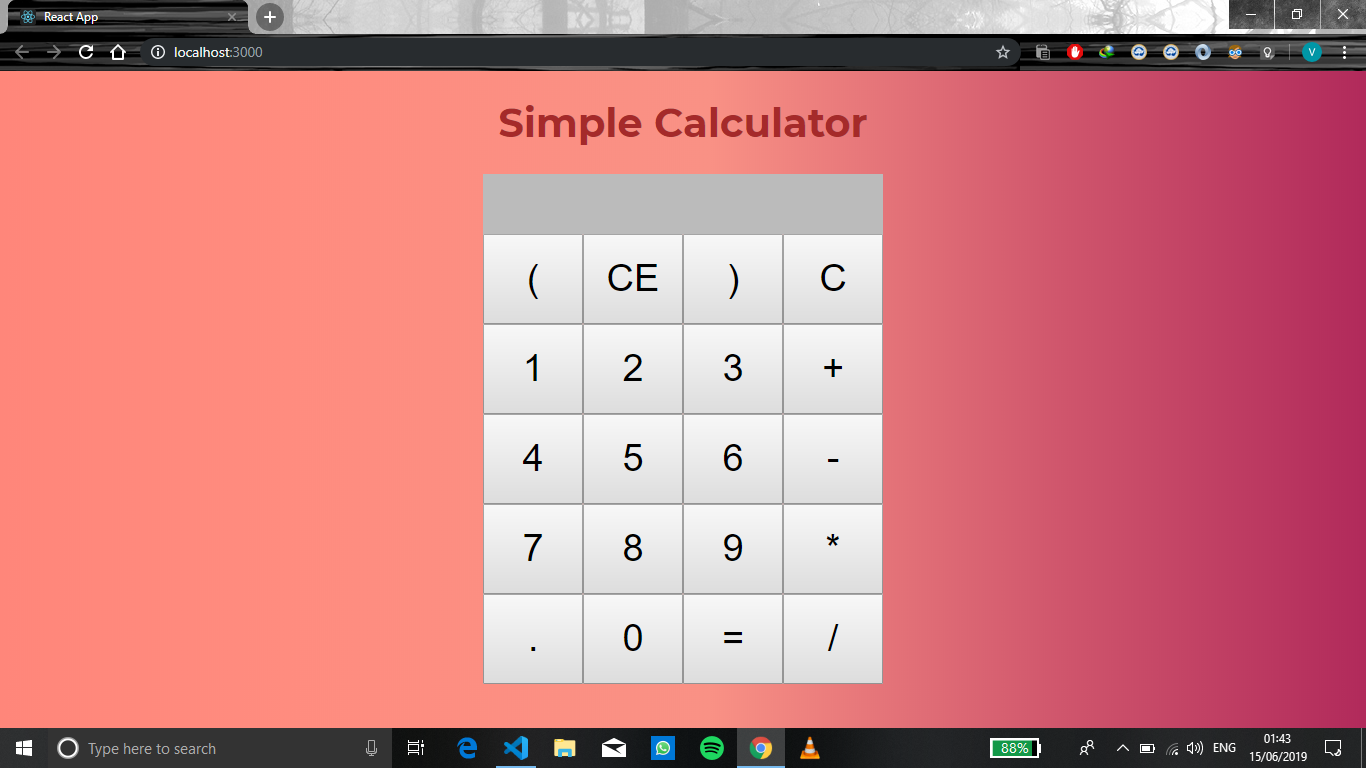
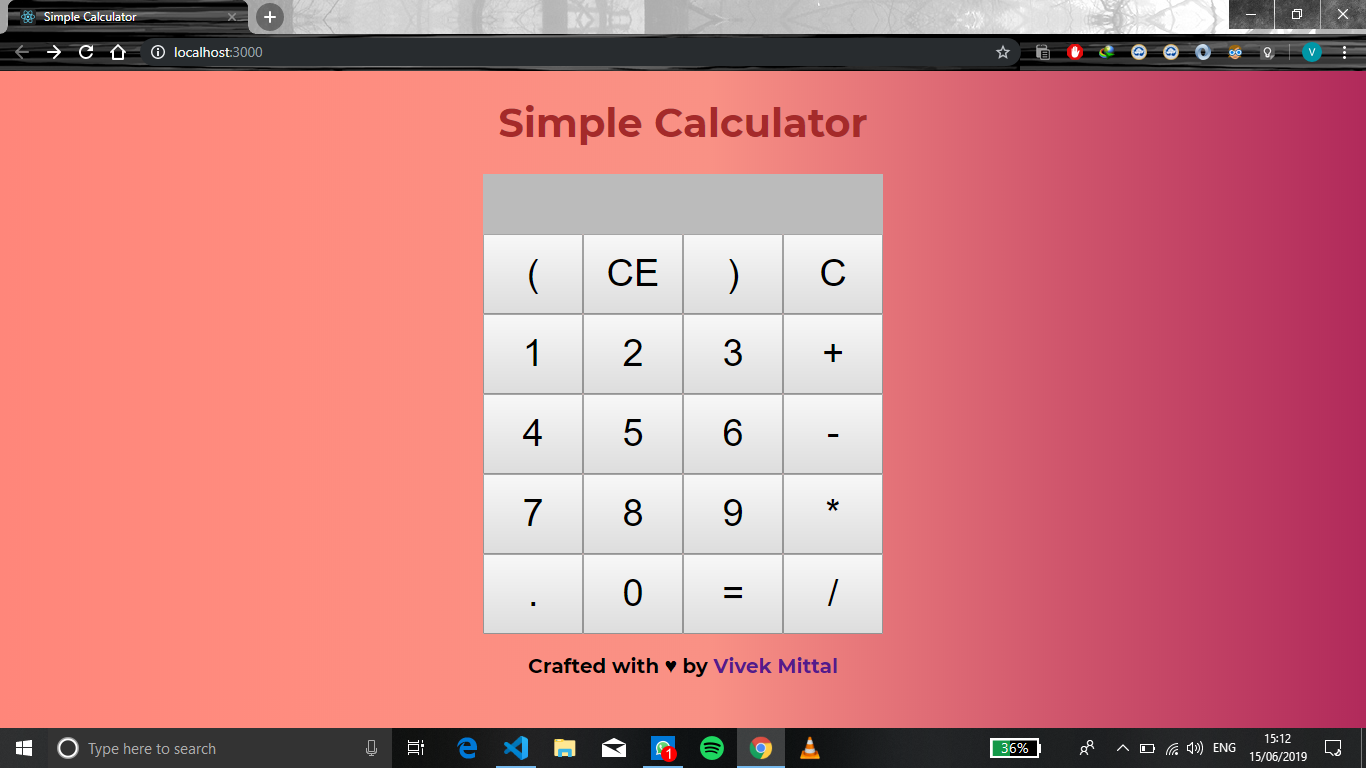
final commit

diff --git a/public/index.html b/public/index.html
@@ -5,34 +5,11 @@
     <link rel="shortcut icon" href="%PUBLIC_URL%/favicon.ico" />
     <meta name="viewport" content="width=device-width, initial-scale=1" />
     <meta name="theme-color" content="#000000" />
-    <!--
-      manifest.json provides metadata used when your web app is installed on a
-      user's mobile device or desktop. See https://developers.google.com/web/fundamentals/web-app-manifest/
-    -->
     <link rel="manifest" href="%PUBLIC_URL%/manifest.json" />
-    <!--
-      Notice the use of %PUBLIC_URL% in the tags above.
-      It will be replaced with the URL of the `public` folder during the build.
-      Only files inside the `public` folder can be referenced from the HTML.
-
-      Unlike "/favicon.ico" or "favicon.ico", "%PUBLIC_URL%/favicon.ico" will
-      work correctly both with client-side routing and a non-root public URL.
-      Learn how to configure a non-root public URL by running `npm run build`.
-    -->
-    <title>React App</title>
+    <title>Simple Calculator</title>
   </head>
   <body>
     <noscript>You need to enable JavaScript to run this app.</noscript>
     <div id="root"></div>
-    <!--
-      This HTML file is a template.
-      If you open it directly in the browser, you will see an empty page.
-
-      You can add webfonts, meta tags, or analytics to this file.
-      The build step will place the bundled scripts into the <body> tag.
-
-      To begin the development, run `npm start` or `yarn start`.
-      To create a production bundle, use `npm run build` or `yarn build`.
-    -->
   </body>
 </html>

diff --git a/src/App.js b/src/App.js
@@ -64,6 +64,7 @@ class App extends Component {
           <h1 className="heading">Simple Calculator</h1>
           <Result result = {this.state.result}/>
           <Keypad onClick={this.onClick}/>
+          <p className="footer">Crafted with ♥ by <a href="https://www.linkedin.com/in/vivek-mittal/">Vivek Mittal</a></p>
         </div>
       </div>
     )

diff --git a/src/App.css b/src/App.css
@@ -34,6 +34,17 @@ html {
 
 button {
   width: 25%;
-  height: 90px;
+  height: 80px;
   font-size: 38px;
+}
+
+.footer {
+  font-family: 'Montserrat', 'sans-serif';
+  font-size: 20px;
+  font-weight: bolder;
+  text-align: center;
+}
+
+.footer a {
+  text-decoration: none;
 }
